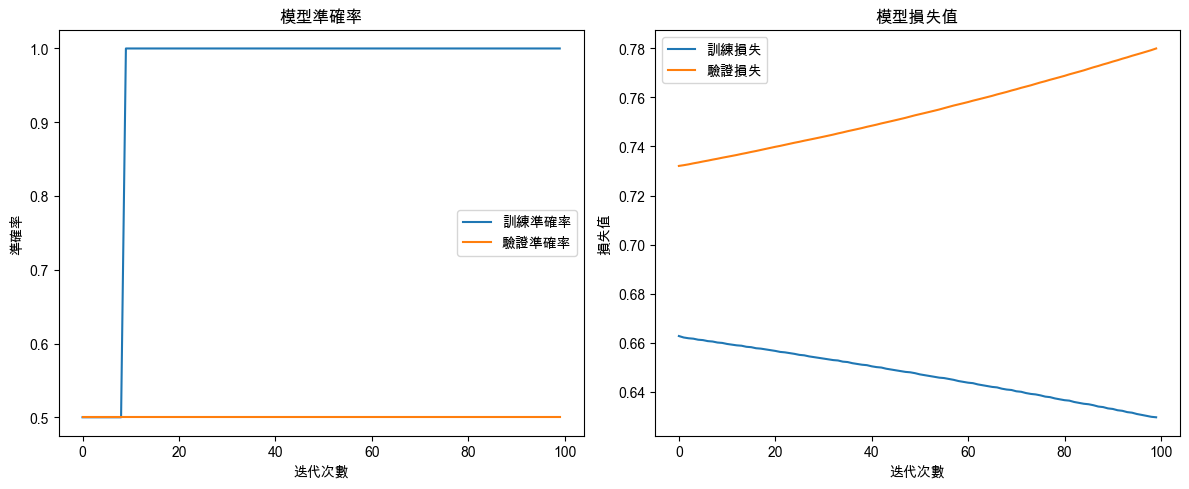
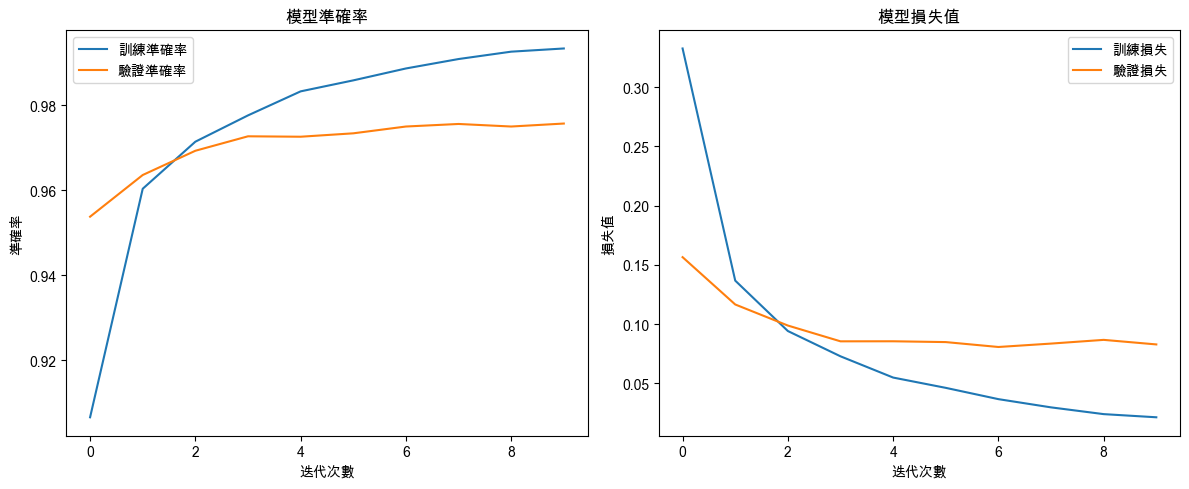
Commit on 2024-08-31 01:53:59

diff --git a/D80_機器學習/07_01 ANN.md b/D80_機器學習/07_01 ANN.md
@@ -1,130 +1,137 @@
 # ANN（Artificial Neural Network, 人工神經網絡）
 
+<br>
+
 ## 說明
 
 1. 深度學習的基本架構，模仿生物神經元的運作方式，用於識別數據中的模式和進行預測。
 
+<br>
+
 2. ANN 由 `輸入層、隱藏層和輸出層` 組成，每一層中的神經元與下一層的神經元相連接，這些連接具有權重，通過訓練數據來調整這些權重，以最小化預測錯誤。
+
+<br>
 
 ## 範例程式碼
 
-1. 以下範例使用 Keras 庫來建立人工神經網絡，用於對二分類數據集如二元邏輯操作進行分類。
+1. 這個範例使用 MNIST 數據集來訓練一個簡單的 ANN 模型。
 
-```python
-import numpy as np
-import matplotlib.pyplot as plt
-from tensorflow.keras.models import Sequential
-from tensorflow.keras.layers import Dense
-from sklearn.model_selection import train_test_split
-from sklearn.metrics import (
-    confusion_matrix, ConfusionMatrixDisplay
-)
+   ```python
+   import numpy as np
+   import matplotlib.pyplot as plt
+   from tensorflow.keras.models import Sequential
+   from tensorflow.keras.layers import Dense, Flatten
+   from tensorflow.keras.utils import to_categorical
+   from tensorflow.keras.datasets import mnist
+   from sklearn.metrics import (
+      confusion_matrix, ConfusionMatrixDisplay
+   )
 
-# 生成二元邏輯操作 XOR 的假數據
-# 輸入數據
-X = np.array([[0, 0], [0, 1], [1, 0], [1, 1]])
-# XOR 操作的輸出
-y = np.array([[0], [1], [1], [0]])
+   # 使用支持中文的字體
+   plt.rcParams['font.sans-serif'] = ['Arial Unicode MS']
+   # 用來正常顯示負號
+   plt.rcParams['axes.unicode_minus'] = False
 
-# 將數據分為訓練集和測試集
-X_train, X_test, y_train, y_test = train_test_split(
-    X, y, test_size=0.5, random_state=42
-)
+   # 加載 MNIST 數據集
+   (X_train, y_train), (X_test, y_test) = mnist.load_data()
 
-# 建立 ANN 模型
-model = Sequential()
-# 第一個隱藏層，4個神經元，ReLU 激活函數
-model.add(Dense(4, input_dim=2, activation='relu'))
-# 輸出層，1個神經元，Sigmoid 激活函數
-model.add(Dense(1, activation='sigmoid'))
+   # 數據預處理：將影像數據轉換為浮點數並歸一化
+   X_train = X_train.astype('float32') / 255
+   X_test = X_test.astype('float32') / 255
 
-# 編譯模型
-model.compile(
-    loss='binary_crossentropy',
-    optimizer='adam',
-    metrics=['accuracy']
-)
+   # 將類別標籤進行 One-hot 編碼
+   y_train = to_categorical(y_train, 10)
+   y_test = to_categorical(y_test, 10)
 
-# 訓練模型
-history = model.fit(
-    X_train, y_train,
-    epochs=100,
-    batch_size=1,
-    verbose=1,
-    validation_data=(X_test, y_test)
-)
+   # 建立 ANN 模型
+   model = Sequential()
+   # 展平層，用於將 2D 影像展平為 1D 向量
+   model.add(Flatten(input_shape=(28, 28)))
+   # 第一個隱藏層，128 個神經元，ReLU 激活函數
+   model.add(Dense(128, activation='relu'))
+   # 第二個隱藏層，64 個神經元，ReLU 激活函數
+   model.add(Dense(64, activation='relu'))
+   # 輸出層，10 個神經元，Softmax 激活函數
+   model.add(Dense(10, activation='softmax'))
 
-# 預測測試集
-y_pred = model.predict(X_test)
-# 將預測結果轉為二元格式
-y_pred_binary = (y_pred > 0.5).astype(int)
+   # 編譯模型
+   model.compile(
+      loss='categorical_crossentropy',
+      optimizer='adam', metrics=['accuracy']
+   )
 
-# 可視化訓練過程中的準確率和損失
-plt.figure(figsize=(12, 5))
+   # 訓練模型
+   history = model.fit(
+      X_train, y_train, 
+      epochs=10, 
+      batch_size=128, 
+      verbose=1, 
+      validation_data=(X_test, y_test)
+   )
 
-# 準確率（Accuracy）可視化
-plt.subplot(1, 2, 1)
-plt.plot(history.history['accuracy'], label='訓練準確率')
-plt.plot(history.history['val_accuracy'], label='驗證準確率')
-plt.title('模型準確率')
-plt.xlabel('迭代次數')
-plt.ylabel('準確率')
-plt.legend()
+   # 預測測試集
+   y_pred = model.predict(X_test)
+   # 將預測結果轉為類別
+   y_pred_classes = np.argmax(y_pred, axis=1)
+   # 將真實標籤轉為類別
+   y_true = np.argmax(y_test, axis=1)
 
-# 損失值（Loss）可視化
-plt.subplot(1, 2, 2)
-plt.plot(history.history['loss'], label='訓練損失')
-plt.plot(history.history['val_loss'], label='驗證損失')
-plt.title('模型損失值')
-plt.xlabel('迭代次數')
-plt.ylabel('損失值')
-plt.legend()
+   # 可視化訓練過程中的準確率和損失
+   plt.figure(figsize=(12, 5))
 
-plt.tight_layout()
-plt.show()
+   # 準確率（Accuracy）可視化
+   plt.subplot(1, 2, 1)
+   plt.plot(history.history['accuracy'], label='訓練準確率')
+   plt.plot(history.history['val_accuracy'], label='驗證準確率')
+   plt.title('模型準確率')
+   plt.xlabel('迭代次數')
+   plt.ylabel('準確率')
+   plt.legend()
 
-# 混淆矩陣可視化
-cm = confusion_matrix(y_test, y_pred_binary)
-disp = ConfusionMatrixDisplay(confusion_matrix=cm)
-disp.plot()
-plt.title('混淆矩陣')
-plt.show()
+   # 損失值（Loss）可視化
+   plt.subplot(1, 2, 2)
+   plt.plot(history.history['loss'], label='訓練損失')
+   plt.plot(history.history['val_loss'], label='驗證損失')
+   plt.title('模型損失值')
+   plt.xlabel('迭代次數')
+   plt.ylabel('損失值')
+   plt.legend()
 
-# 評估模型性能
-test_loss, test_acc = model.evaluate(X_test, y_test)
-print(f'測試集上的準確率：{test_acc:.2f}')
-```
+   plt.tight_layout()
+   plt.show()
 
-2. 模型準確率和損失值變化，X軸表示迭代次數，也就是訓練的回合數 `Epoch`，Y軸表示準確率；藍色線條表示訓練集的準確率，橙色線條表示驗證集的準確率；以結果來說，訓練集的準確率在第一個 epoch 後迅速達到 1.0，這表明模型在訓練集上表現完美，另外驗證集的準確率保持在 0.5，表明模型在驗證集上未能正確學習或存在過擬合（overfitting）現象，這是因為訓練數據和驗證數據的分佈可能不同或模型複雜度不足。
+   # 混淆矩陣可視化
+   cm = confusion_matrix(y_true, y_pred_classes)
+   disp = ConfusionMatrixDisplay(confusion_matrix=cm)
+   disp.plot()
+   plt.title('混淆矩陣')
+   plt.show()
 
-![](images/img_12.png)
+   # 評估模型性能
+   test_loss, test_acc = model.evaluate(X_test, y_test)
+   print(f'測試集上的準確率：{test_acc:.2f}')
+   ```
+
+<br>
+
+2. 模型準確率和損失值變化，X軸表示迭代次數，也就是訓練的回合數 `Epoch`，Y軸表示準確率；藍色線條表示訓練集的準確率，橙色線條表示驗證集的準確率。
+
+   ![](images/img_12.png)
+
+<br>
 
 3. 混淆矩陣。
 
-![](images/img_13.png)
+   ![](images/img_13.png)
 
-### 代碼說明與註解：
+<br>
 
-1. 數據生成與分割：
-   - 生成 XOR 操作的假數據，用於二分類問題。輸入數據為二進制組合，輸出為 XOR 結果。
-   - 使用 `train_test_split` 將數據集分為訓練集和測試集。
+4. 結果。
 
-2. 建立 ANN 模型：
-   - 使用 Keras 的 `Sequential` 模型構建簡單的人工神經網絡。
-   - 添加一個隱藏層，包含 4 個神經元，使用 ReLU 激活函數。
-   - 輸出層使用 Sigmoid 激活函數，適用於二分類問題。
+   ![](images/img_14.png)
 
-3. 模型編譯與訓練：
-   - 編譯模型時使用 `adam` 優化器和 `binary_crossentropy` 損失函數。
-   - 訓練模型並保存訓練過程中的準確率和損失值。
+<br>
 
-4. 結果可視化：
-   - 使用 Matplotlib 繪製訓練過程中的準確率和損失值變化圖，直觀了解模型的收斂情況。
-   - 使用混淆矩陣可視化模型預測的效果，觀察模型的分類準確性。
+___
 
-5. 模型評估：
-   - 使用測試集評估模型性能，並輸出準確率作為評估指標。
-
-### 總結
-
-這個範例展示了如何使用人工神經網絡（ANN）進行二分類問題的處理，並重點在於結果的可視化，幫助理解模型在不同迭代過程中的性能變化。人工神經網絡是深度學習的基礎結構，適用於多種數據類型和問題類型，包括回歸、分類和多類別分類等。
+_END_

diff --git a/D80_機器學習/07_02 DNN.md b/D80_機器學習/07_02 DNN.md
@@ -1,0 +1,133 @@
+#  DNN
+
+_Deep Neural Network, 深度神經網絡_
+
+<br>
+
+## 說明
+
+1. 以下範例使用 Fashion-MNIST 數據集來訓練一個 DNN 模型，進行服飾圖片的分類任務。
+
+    ```python
+    import numpy as np
+    import matplotlib.pyplot as plt
+    from tensorflow.keras.models import Sequential
+    from tensorflow.keras.layers import Dense, Flatten
+    from tensorflow.keras.utils import to_categorical
+    from tensorflow.keras.datasets import fashion_mnist
+    from sklearn.metrics import (
+        confusion_matrix, ConfusionMatrixDisplay
+    )
+
+    # 設定支持中文的字體，避免顯示錯誤
+    plt.rcParams['font.sans-serif'] = ['Arial Unicode MS']
+    # 用來正常顯示負號
+    plt.rcParams['axes.unicode_minus'] = False
+
+    # 加載 Fashion-MNIST 數據集
+    (X_train, y_train), (X_test, y_test) = fashion_mnist.load_data()
+
+    # 將影像數據轉換為浮點數並進行歸一化，縮放到 0-1 範圍
+    X_train = X_train.astype('float32') / 255
+    X_test = X_test.astype('float32') / 255
+
+    # 將類別標籤進行 One-hot 編碼，轉換為二進位矩陣
+    y_train = to_categorical(y_train, 10)
+    y_test = to_categorical(y_test, 10)
+
+    # 建立 DNN 模型
+    model = Sequential()
+
+    # 展平層，將 2D 影像數據展平為 1D 向量
+    model.add(Flatten(input_shape=(28, 28)))
+
+    # 第一個隱藏層，256 個神經元，ReLU 激活函數
+    model.add(Dense(256, activation='relu'))
+
+    # 第二個隱藏層，128 個神經元，ReLU 激活函數
+    model.add(Dense(128, activation='relu'))
+
+    # 第三個隱藏層，64 個神經元，ReLU 激活函數
+    model.add(Dense(64, activation='relu'))
+
+    # 輸出層，10 個神經元，Softmax 激活函數，對應 10 個類別
+    model.add(Dense(10, activation='softmax'))
+
+    # 編譯模型，使用 Adam 優化器和類別交叉熵損失函數
+    model.compile(
+        loss='categorical_crossentropy', 
+        optimizer='adam', 
+        metrics=['accuracy']
+    )
+
+    # 訓練模型，進行 20 次迭代（epochs），每批處理 128 個樣本
+    history = model.fit(
+        X_train, y_train, 
+        epochs=20, 
+        batch_size=128, 
+        verbose=1, 
+        validation_data=(X_test, y_test)
+    )
+
+    # 使用測試集進行預測
+    y_pred = model.predict(X_test)
+
+    # 將預測結果轉為類別索引
+    y_pred_classes = np.argmax(y_pred, axis=1)
+    # 將真實標籤轉為類別索引
+    y_true = np.argmax(y_test, axis=1)
+
+    # 建立圖形框架，設定大小
+    plt.figure(figsize=(12, 5))
+
+    # 可視化準確率（Accuracy）
+    plt.subplot(1, 2, 1)
+    plt.plot(history.history['accuracy'], label='訓練準確率')
+    plt.plot(history.history['val_accuracy'], label='驗證準確率')
+    plt.title('模型準確率')
+    plt.xlabel('迭代次數')
+    plt.ylabel('準確率')
+    plt.legend()
+
+    # 可視化損失值（Loss）
+    plt.subplot(1, 2, 2)
+    plt.plot(history.history['loss'], label='訓練損失')
+    plt.plot(history.history['val_loss'], label='驗證損失')
+    plt.title('模型損失值')
+    plt.xlabel('迭代次數')
+    plt.ylabel('損失值')
+    plt.legend()
+
+    # 自動調整子圖參數，使圖像填充整個圖形區域
+    plt.tight_layout()
+    plt.show()
+
+    # 生成混淆矩陣，並進行可視化
+    cm = confusion_matrix(y_true, y_pred_classes)
+    disp = ConfusionMatrixDisplay(confusion_matrix=cm)
+    disp.plot()
+    plt.title('混淆矩陣')
+    plt.show()
+
+    # 使用測試集評估模型性能，輸出準確率
+    test_loss, test_acc = model.evaluate(X_test, y_test)
+    print(f'測試集上的準確率：{test_acc:.2f}')
+    ```
+
+<br>
+
+2. 結果。
+
+    ![](images/img_15.png)
+
+<br>
+
+3. 混淆矩陣。
+
+    ![](images/img_16.png)
+
+<br>
+
+___
+
+_END_
